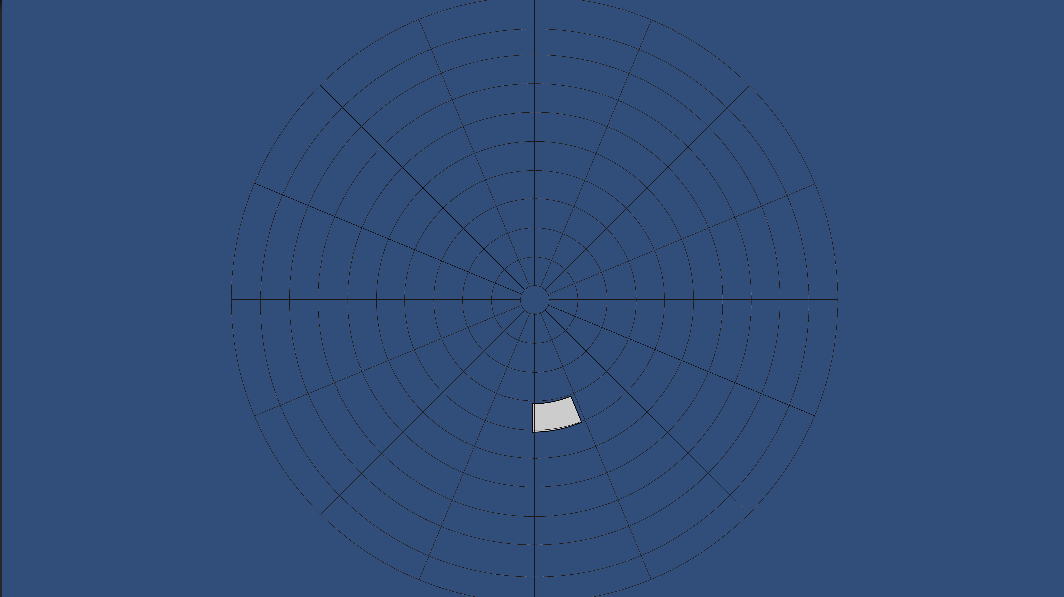
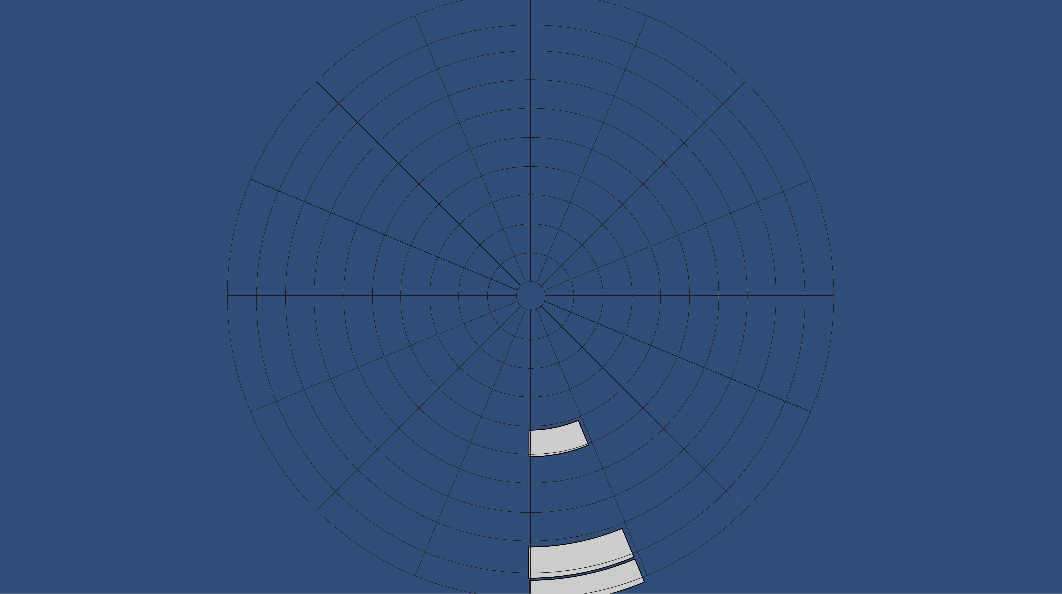
correct now! uses contrapositive with shortcircuit!
compare against changes in last commit to see minor change that works
now! the power of contrapositive and short circuiting logic is magical!

diff --git a/Assets/Scripts/SpawnBlocks.cs b/Assets/Scripts/SpawnBlocks.cs
@@ -3,7 +3,7 @@ using System.Collections;
 
 public class SpawnBlocks : MonoBehaviour {
 	private float timer;
-	public static float blockAdvanceTime = 2f;
+	public static float blockAdvanceTime = .2f;
 	private GameObject gridGO;
 	public static int[,] gridActiveBlocks = new int[13,16];
 	private bool movingBlockExists = false;
@@ -86,7 +86,7 @@ public class SpawnBlocks : MonoBehaviour {
 	void Spawn(){
 		movingBlockHeight = 0;
 		movingBlockWidth = 0;
-		gridActiveBlocks[movingBlockHeight+4, movingBlockWidth] = 1;
+		gridActiveBlocks[movingBlockHeight+3, movingBlockWidth] = 1;
 		movingBlock = (GameObject) Instantiate ( arrayAtomicBlock[movingBlockHeight], new Vector3(0.8f, -2.1f, 0.1f), Quaternion.identity );
 		movingBlockExists = true;
 	}
@@ -94,13 +94,17 @@ public class SpawnBlocks : MonoBehaviour {
 	void PushBlockOut(){
 
 		//check if logic collision happens
-		bool condA = movingBlockHeight >= maxBlockPos; 
+		bool condA = movingBlockHeight + 1 > maxBlockPos;  //WILL BE OUT OF BOUNDS
 
-		if ( condA && gridActiveBlocks[movingBlockHeight+1+3,movingBlockWidth] == 1 ){ // condA is only used for it's short circuiting property
-			logicCollision = true;
+		//contrapositive applied here 
+		if ( !condA && !(gridActiveBlocks[movingBlockHeight+1+3,movingBlockWidth] == 1 )) {  // condA is only used for it's short circuiting property
+			logicCollision = false;
 		}
 		else {
-			logicCollision = false;
+			logicCollision = true;
+			//lock block
+			//??? delay ???
+			Spawn ();
 		}
 
 		if (movingBlockExists && movingBlockHeight < maxBlockPos && !logicCollision){
@@ -114,11 +118,11 @@ public class SpawnBlocks : MonoBehaviour {
 
 
 		}
-		else if ( movingBlockHeight >= maxBlockPos ){
-			//lock block
-			//??? delay ???
-			Spawn ();
-		}
+//		else if ( movingBlockHeight >= maxBlockPos ){
+//			//lock block
+//			//??? delay ???
+//			Spawn ();
+//		}
 	}
 
 	Vector3 CalcBlockPos(){
